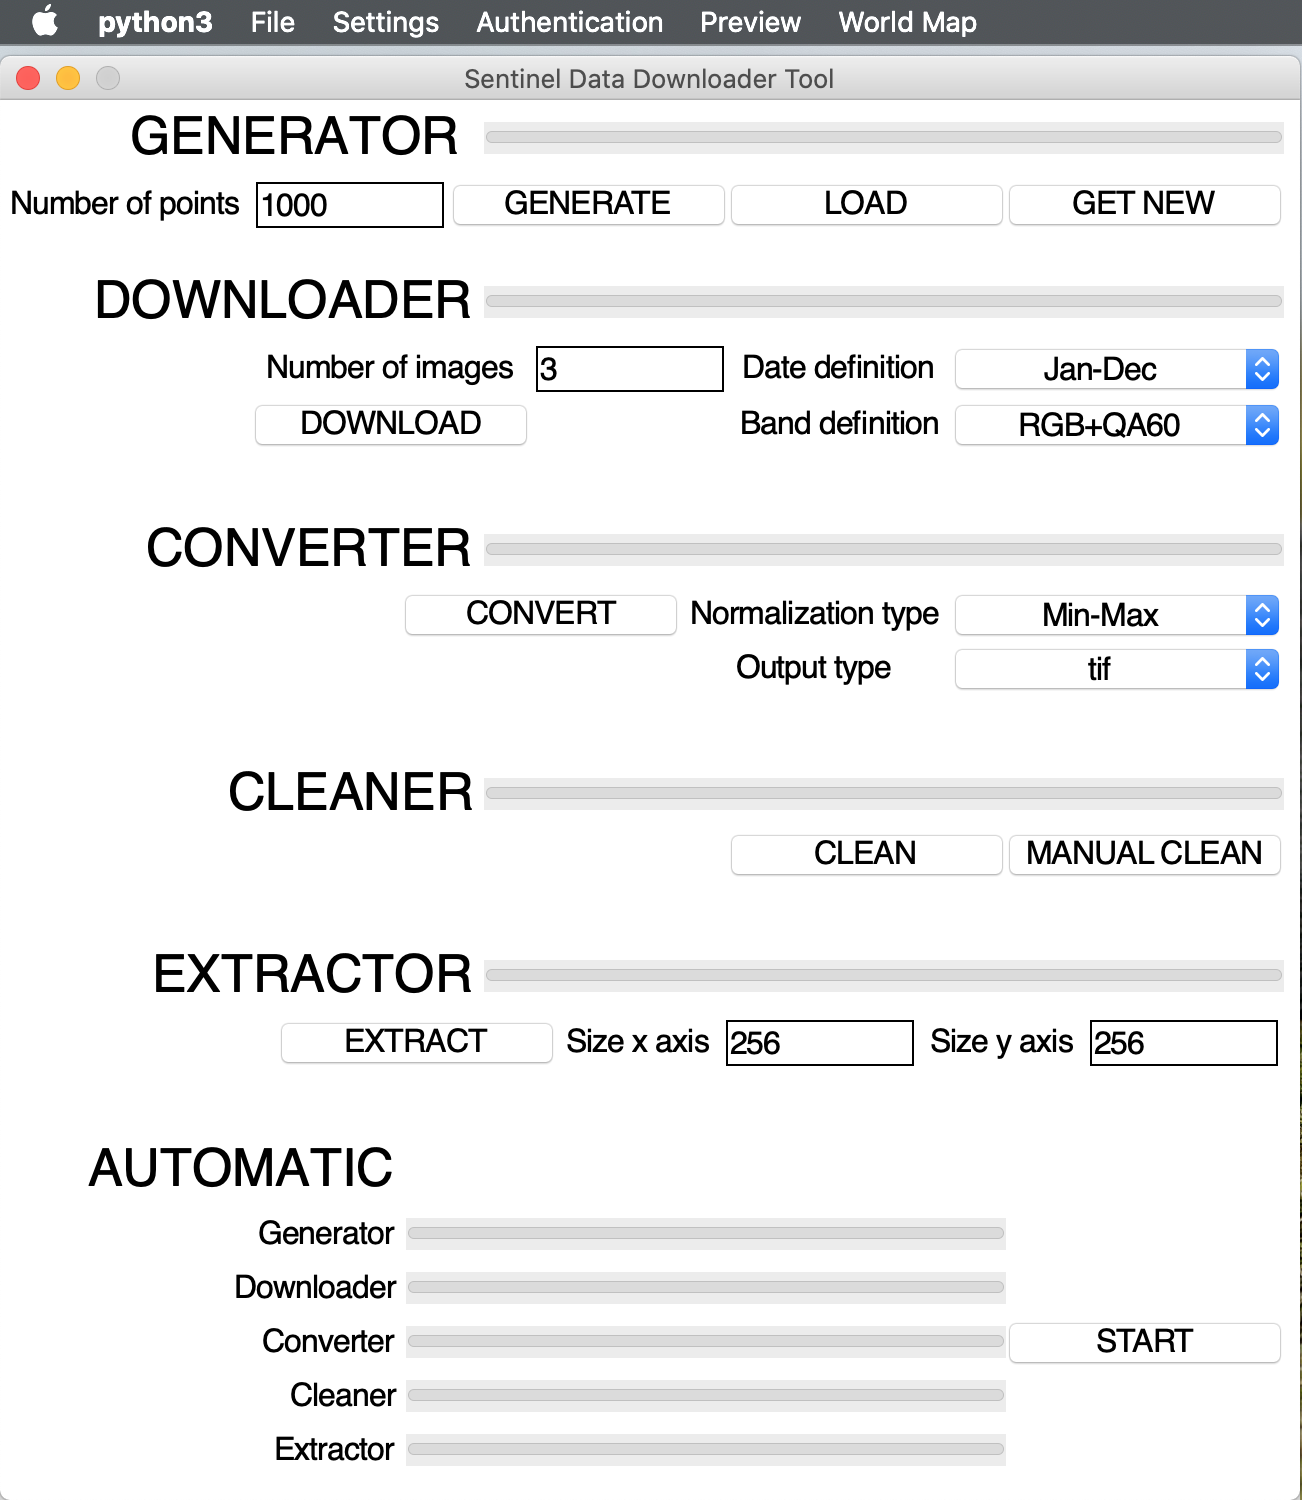
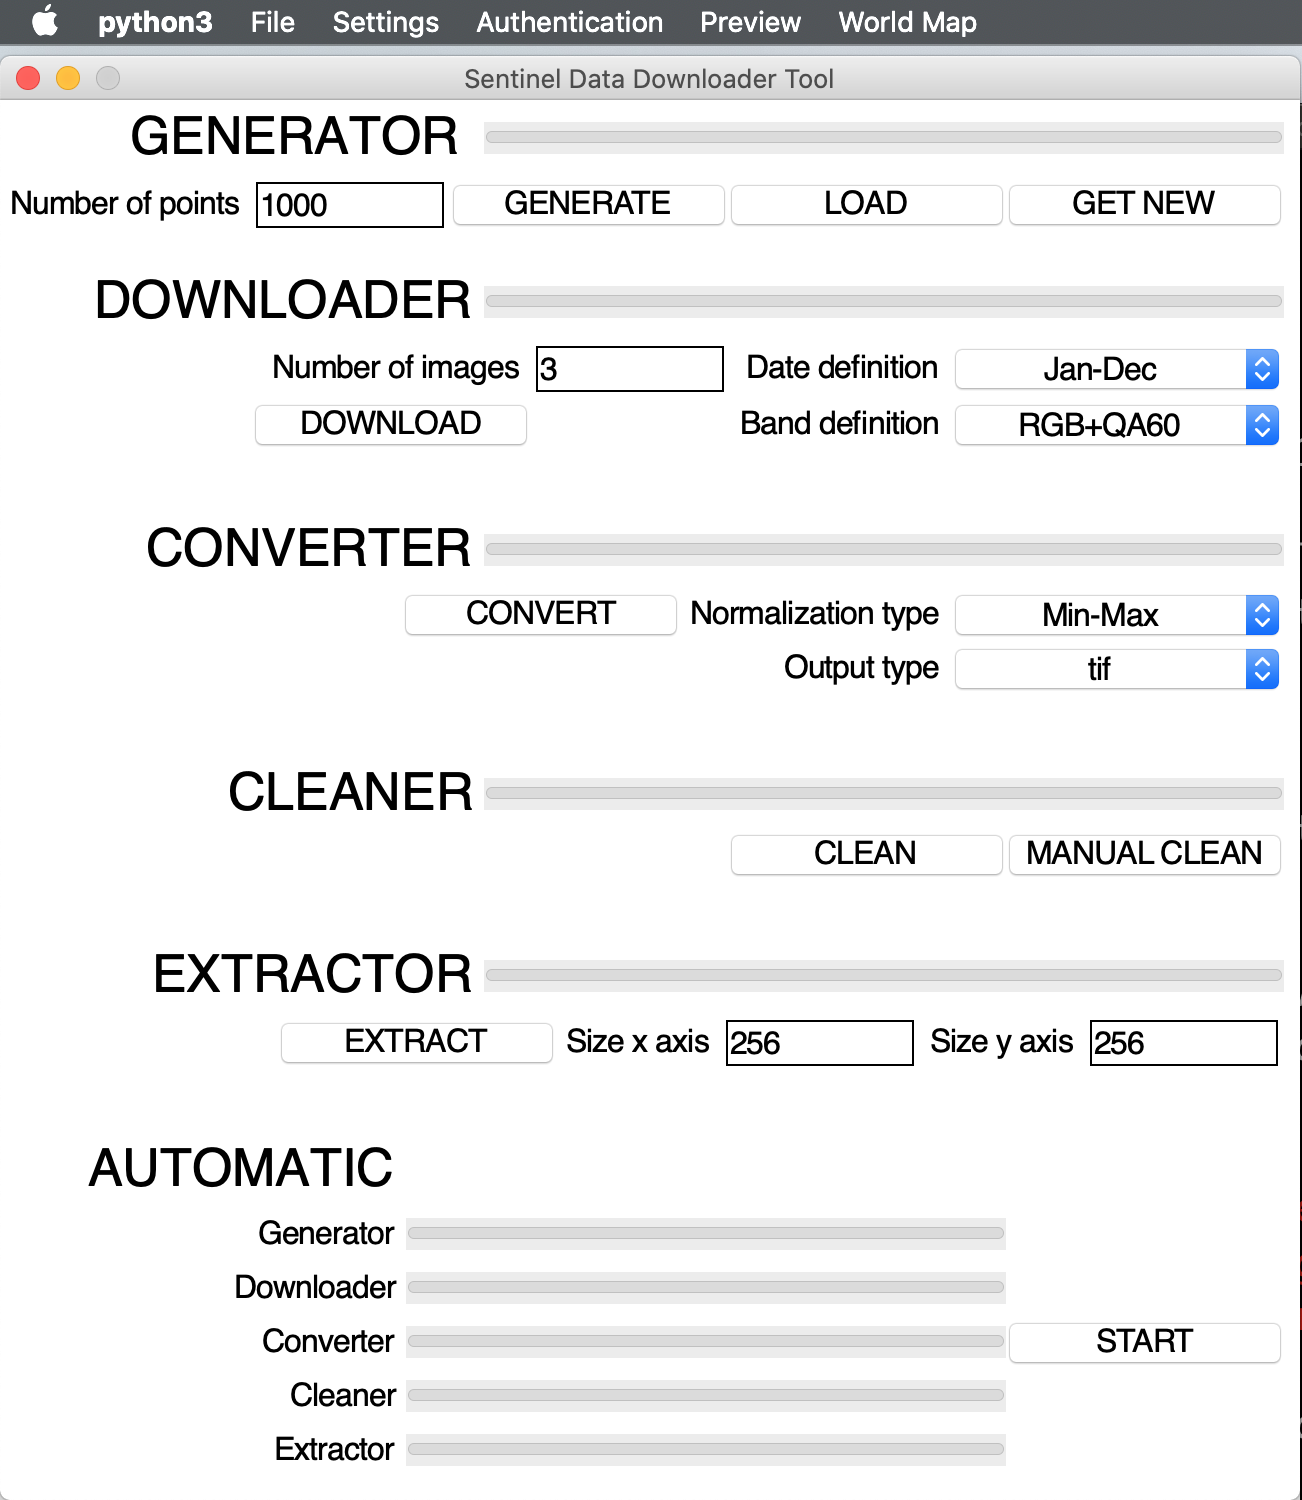
GUI -> sticky to E and README

Changed region(s): [[0.2151, 0.2147, 0.3994, 0.276], [0.5837, 0.2147, 0.7066, 0.276], [0.553, 0.4293, 0.7373, 0.46]]

diff --git a/gui_code/DownloaderWidget.py b/gui_code/DownloaderWidget.py
@@ -35,27 +35,27 @@ class DownloaderWidget:
     downloader_sub_frame_2.grid(row=2, column=1, sticky=tk.E)
 
     n_of_images_label = tk.Label(downloader_sub_frame_2, text='Number of images', font=self.helv16)
-    n_of_images_label.grid(row=2, column=1)
+    n_of_images_label.grid(row=2, column=1, sticky=tk.E)
     self.n_of_images_area = tk.Entry(downloader_sub_frame_2, textvariable=self.number_of_images, width=10, font=self.helv16, borderwidth=1, relief="solid")
-    self.n_of_images_area.grid(row=2, column=2)
+    self.n_of_images_area.grid(row=2, column=2, sticky=tk.E)
 
     date_def_label = tk.Label(downloader_sub_frame_2, text='Date definition', font=self.helv16)
-    date_def_label.grid(row=2, column=3)
+    date_def_label.grid(row=2, column=3, sticky=tk.E)
     
     self.date_var.set(self.date_options[0])
     date_menu = tk.OptionMenu(downloader_sub_frame_2, self.date_var, *self.date_options)
     date_menu.config(width=15, font=self.helv16)
-    date_menu.grid(row=2, column=4)
+    date_menu.grid(row=2, column=4, sticky=tk.E)
 
     self.download_button = tk.Button(downloader_sub_frame_2, text='DOWNLOAD', height=1, width=15, font=self.helv16, command = None)
     self.download_button.grid(row=3, column=1, sticky=tk.E)
 
     band_def_label = tk.Label(downloader_sub_frame_2, text='Band definition', font=self.helv16)
-    band_def_label.grid(row=3, column=3)
+    band_def_label.grid(row=3, column=3, sticky=tk.E)
     
     self.band_var.set(self.band_options[0])
     band_menu = tk.OptionMenu(downloader_sub_frame_2, self.band_var, *self.band_options)
     band_menu.config(width=15, font=self.helv16)
-    band_menu.grid(row=3, column=4)
+    band_menu.grid(row=3, column=4, sticky=tk.E)
 
 

diff --git a/gui_code/ConverterWidget.py b/gui_code/ConverterWidget.py
@@ -36,7 +36,7 @@ class ConverterWidget:
     self.convert_button.grid(row=2, column=1, sticky=tk.E)
 
     normalization_type_label = tk.Label(converter_sub_frame_2, text='Normalization type', font=self.helv16)
-    normalization_type_label.grid(row=2, column=2)
+    normalization_type_label.grid(row=2, column=2, sticky=tk.E)
     
     self.normalization_var.set(self.normalization_types[0])
     normalization_menu = tk.OptionMenu(converter_sub_frame_2, self.normalization_var, *self.normalization_types)
@@ -44,11 +44,11 @@ class ConverterWidget:
     normalization_menu.grid(row=2, column=3)
 
     output_type_label = tk.Label(converter_sub_frame_2, text='Output type', font=self.helv16)
-    output_type_label.grid(row=3, column=2)
+    output_type_label.grid(row=3, column=2, sticky=tk.E)
     
     self.output_var.set(self.output_types[0])
     output_menu = tk.OptionMenu(converter_sub_frame_2, self.output_var, *self.output_types)
     output_menu.config(width=15, font=self.helv16)
-    output_menu.grid(row=3, column=3)
+    output_menu.grid(row=3, column=3, sticky=tk.E)
 
 

diff --git a/gui_code/PatchExtractorWidget.py b/gui_code/PatchExtractorWidget.py
@@ -34,15 +34,15 @@ class PatchExtractorWidget:
     self.extractor_button.grid(row=2, column=1, sticky=tk.E)
 
     extractor_x_label = tk.Label(extractor_sub_frame_2, text='Size x axis', font=self.helv16)
-    extractor_x_label.grid(row=2, column=2)
+    extractor_x_label.grid(row=2, column=2, sticky=tk.E)
     
     self.extractor_x_area = tk.Entry(extractor_sub_frame_2, textvariable=self.extractor_x_size, width=10, font=self.helv16, borderwidth=1, relief="solid")
-    self.extractor_x_area.grid(row=2, column=3)
+    self.extractor_x_area.grid(row=2, column=3, sticky=tk.E)
 
     extractor_y_label = tk.Label(extractor_sub_frame_2, text='Size y axis', font=self.helv16)
-    extractor_y_label.grid(row=2, column=4)
+    extractor_y_label.grid(row=2, column=4, sticky=tk.E)
     
     self.extractor_y_area = tk.Entry(extractor_sub_frame_2, textvariable=self.extractor_y_size, width=10, font=self.helv16, borderwidth=1, relief="solid")
-    self.extractor_y_area.grid(row=2, column=5)
+    self.extractor_y_area.grid(row=2, column=5, sticky=tk.E)
 
 

diff --git a/README.md b/README.md
@@ -216,11 +216,28 @@ Menu bar:
 Main window:
 
 - **Generator**:
+	- Number of points
+	- Generate
+	- Load
+	- Get new
 - **Downloader**:
+	- Number of images
+	- Date definition
+	- Band definition
+	- Download 
 - **Converter**:
+	- Normalization type
+	- Output type
+	- Convert
 - **Cleaner**:
+	- Clean
+	- Manual clean	 	
 - **Extractor**:
+	- Size x axis
+	- Size y axis
+	- Extract
 - **Automatic**:
+	- Start 
 
 # Add-on
 ## Manual cleaner
